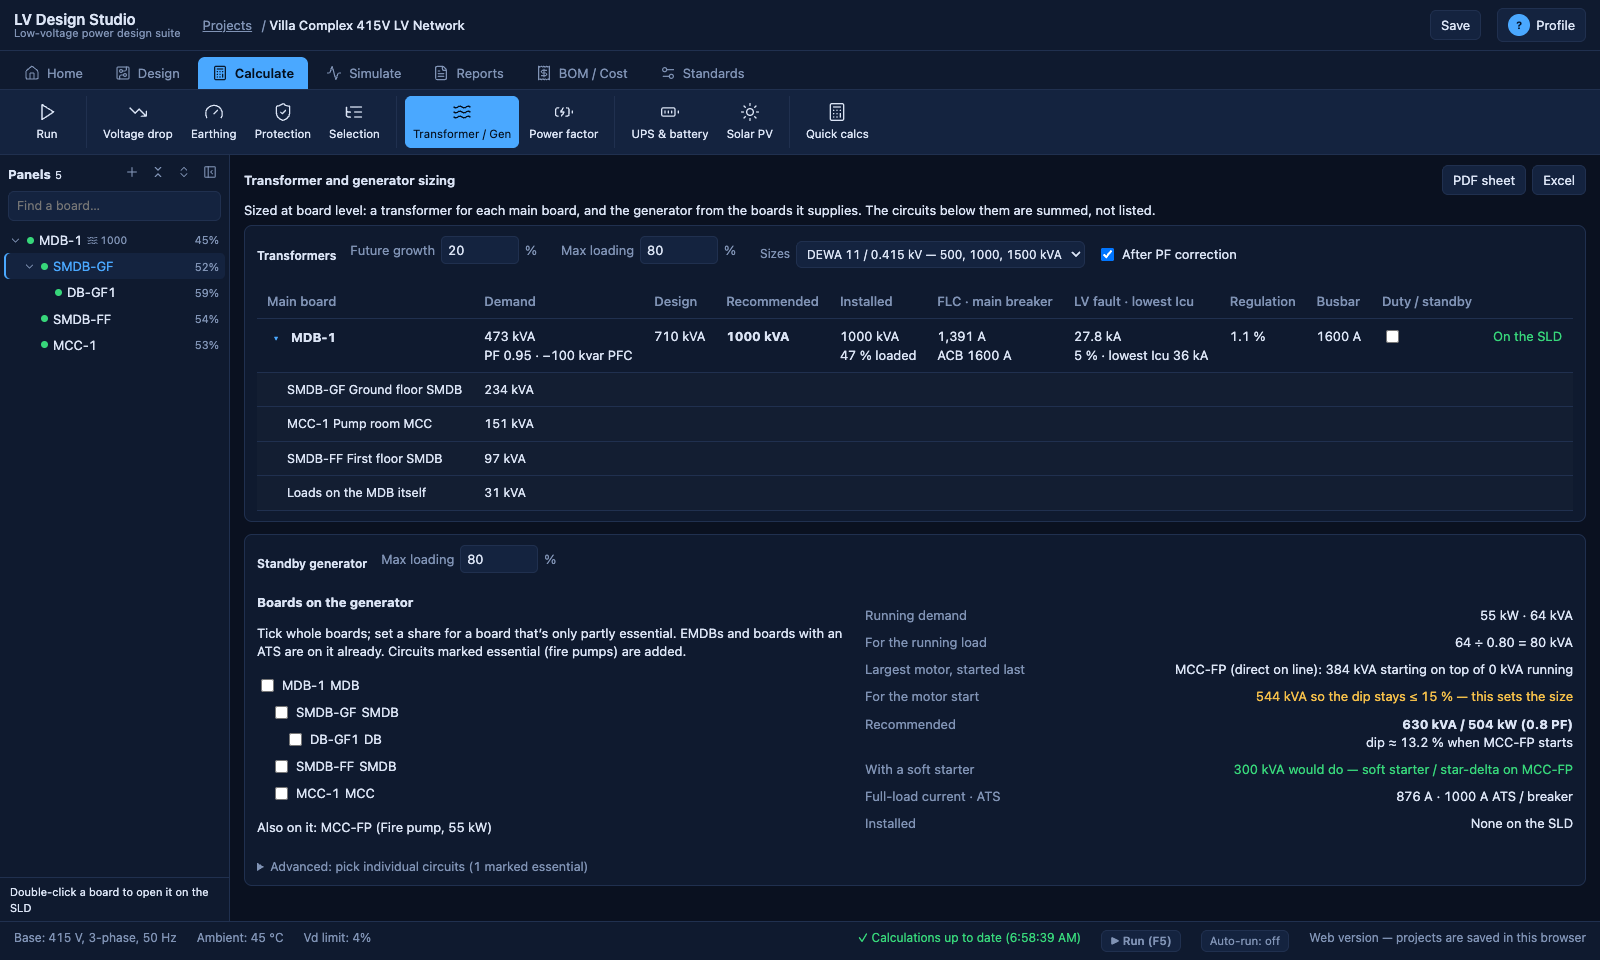
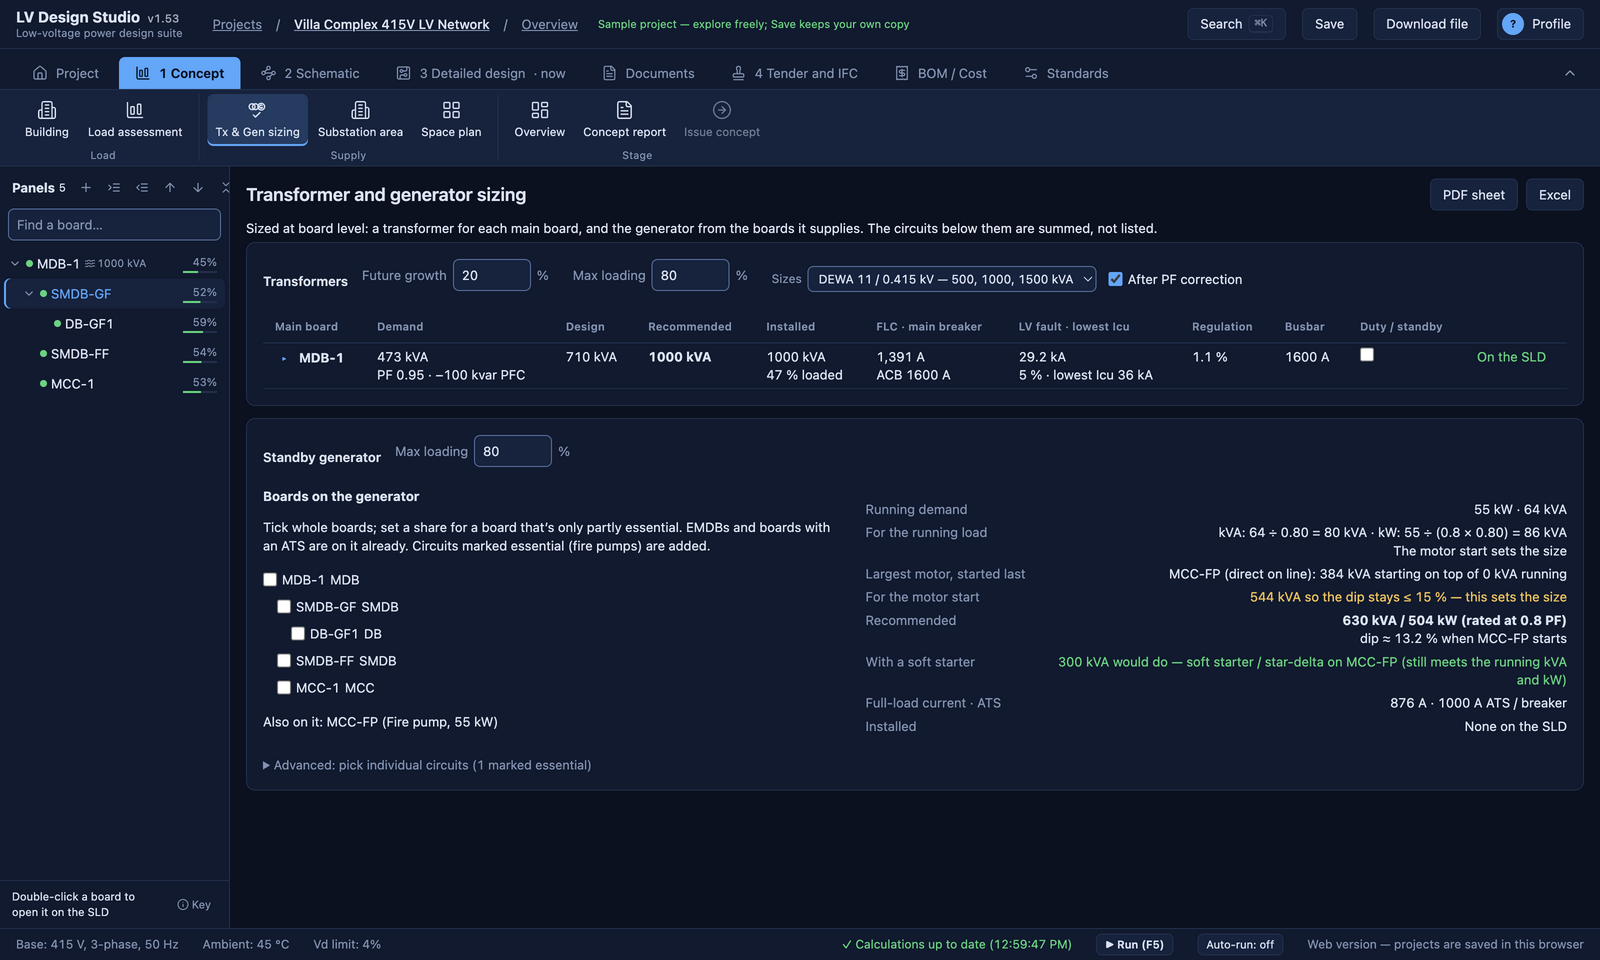
README: retake screenshots with the stage ribbon (v1.54)
All nine screenshots retaken from the sample project at 1600 x 960,
plus a new one of the Overview with the design stages. Overview: the
stage gate and Back buttons get the usual spacing.

diff --git a/src/components/docs/ProjectDashboard.tsx b/src/components/docs/ProjectDashboard.tsx
@@ -133,6 +133,7 @@ export default function ProjectDashboard({ project, run, stale, saved = false, o
             {c.gate && <span className="m">Issued {new Date(c.gate.date).toLocaleDateString('en-GB', { day: 'numeric', month: 'short', year: 'numeric' })}{c.gate.by ? ` · ${c.gate.by}` : ''}</span>}
           </div>
         ))}</div>
+        <div className="dash-actions">
         {onIssueStage && !(stageOf(project) === 'ifc' && ifcIssued(project)) && (
           <button className="chip primary" onClick={onIssueStage} title="Records a revision, makes it the baseline and moves to the next stage">
             {stageOf(project) === 'ifc' ? 'Issue IFC' : `Issue ${STAGE_INFO[stageOf(project)].label.toLowerCase()} → ${STAGE_INFO[nextDesignStage(project)!].label}`}
@@ -143,6 +144,7 @@ export default function ProjectDashboard({ project, run, stale, saved = false, o
             {stageOf(project) === 'ifc' && ifcIssued(project) ? 'Reopen IFC' : `Back to ${STAGE_INFO[prevDesignStage(project)!].label.toLowerCase()}`}
           </button>
         )}
+        </div>
       </section>
       <section className="card dash-brief">
         <h4>Scope and deliverables{brief && <span className="m"> — {ROLE_LABEL[brief.role].title.split(' — ')[0]}{progress.total ? ` · ${progress.done} / ${progress.total} delivered` : ''}</span>}

diff --git a/README.md b/README.md
@@ -7,7 +7,7 @@ power factor correction, drawings and submission reports. Projects are plain
 JSON files, so they sync cleanly through a Google Drive / OneDrive / Dropbox
 desktop folder.
 
-**Version 1.53** (see `package.json`). The app is in active use and active
+**Version 1.54** (see `package.json`). The app is in active use and active
 development.
 
 > **Engineering status.** The calculations are first-pass design checks, not
@@ -21,18 +21,21 @@ development.
 
 ## Screenshots
 
-The built-in demo project (a 415 V villa complex).
+The built-in demo project (a 415 V villa complex). The ribbon follows the design stages: 1 Concept → 2 Schematic → 3 Detailed design → Documents → 4 Tender and IFC.
 
-**Single line diagram**: IEC symbols and a legend, the panel tree on the left, the equipment palette, and properties on the right.
+**Overview and design stages**: each stage's checklist, the stage gate (Issue detailed design → IFC) and Back to the previous stage, with key figures below.
+![Overview and design stages](docs/screenshots/10-overview-design-stages.png)
+
+**Single line diagram** (3 Detailed design): IEC / DEWA symbols, the panel tree on the left, and board properties on the right.
 ![Single line diagram](docs/screenshots/01-single-line-diagram.png)
 
 **Load schedule**: the DEWA connected load / maximum demand form for the board picked in the panel tree.
 ![Load schedule](docs/screenshots/02-load-schedule.png)
 
-**Transformer & generator sizing**: a transformer per MDB (fault level, main breaker, regulation, Apply to SLD), and the generator chosen by board, with the largest motor starting last.
+**Transformer & generator sizing** (1 Concept): a transformer per MDB (fault level, main breaker, regulation, Apply to SLD), and the generator chosen by board, with the largest motor starting last.
 ![Transformer and generator sizing](docs/screenshots/03-transformer-generator.png)
 
-**Power factor correction**: central, group or individual correction. Banks are sized from the bottom up (nothing is corrected twice), with steps and detuning. Add them to the SLD.
+**Power factor correction** (2 Schematic): central, group or individual correction. Banks are sized from the bottom up (nothing is corrected twice), with steps and detuning. Add them to the SLD.
 ![Power factor correction](docs/screenshots/04-power-factor-correction.png)
 
 **Earthing, filtered from the panel tree**: click SMDB-GF to see only that board and the boards below it.

diff --git a/docs/notes/Status.md b/docs/notes/Status.md
@@ -8,6 +8,7 @@ _Last updated: 2026-10-20_
 - International / India / additional-authority support is **on hold until explicit user confirmation**. Research is saved in [[International authority profiles - review - 2026-10-04]] under [[Future development]]; do not begin implementing that proposal now.
 
 ## Done (on main)
+- README screenshots retaken on v1.54 (new ribbon, 10-overview-design-stages added); Overview stage buttons spaced.
 - Stage tweaks (v1.53): Overview → "Back to <previous stage>" / "Reopen IFC" undoes a stage issued by mistake (the revision stays); 3 Detailed design tab fits 1,440 px — one "Add load ▾" button (load, motor, solar PV, EV, feeder cable), Run only (Undo / Redo on ⌘Z and the other tabs), "Enclosure".
 - Design stages (v1.52, branch `design-stages`): Concept → Schematic → Detailed design → (Tender) → IFC. Ribbon tabs in stage order (Project · 1 Concept · 2 Schematic · 3 Detailed design · Documents · 4 Tender and IFC · BOM / Cost · Standards); a project opens on its stage's tab. Stage gate ("Issue concept → Schematic" …) records a revision, makes it the baseline and sets the drawing status (FOR CONCEPT REVIEW, FOR SCHEMATIC REVIEW, FOR AUTHORITY SUBMISSION, FOR TENDER, FOR CONSTRUCTION). Overview shows each stage's checklist; findings of a later stage are listed but not counted. Tender route: IFC used for tender (default) or tender before IFC; tender queries are Review comments of type Tender query. Older projects carry on as detailed design. 1 Concept → Concept report: one A4 black-and-white PDF (building, area schedule, maximum demand, supply, DM-D-013 room areas, items to confirm).
 - Building reuse (branch `building-presets`): Building → Save as preset… keeps a building's levels, flats, rooms, flat layouts, room types and riser lengths (no DB links, no riser board) in Library.json, with import / export; From preset / past project… adds buildings from a preset or another project with new ids, after a review (layouts reused or added, room types added, figures that differ kept or replaced); Flats / tenants → Save to library / From library… writes to and picks from UnitTypes.xlsx
